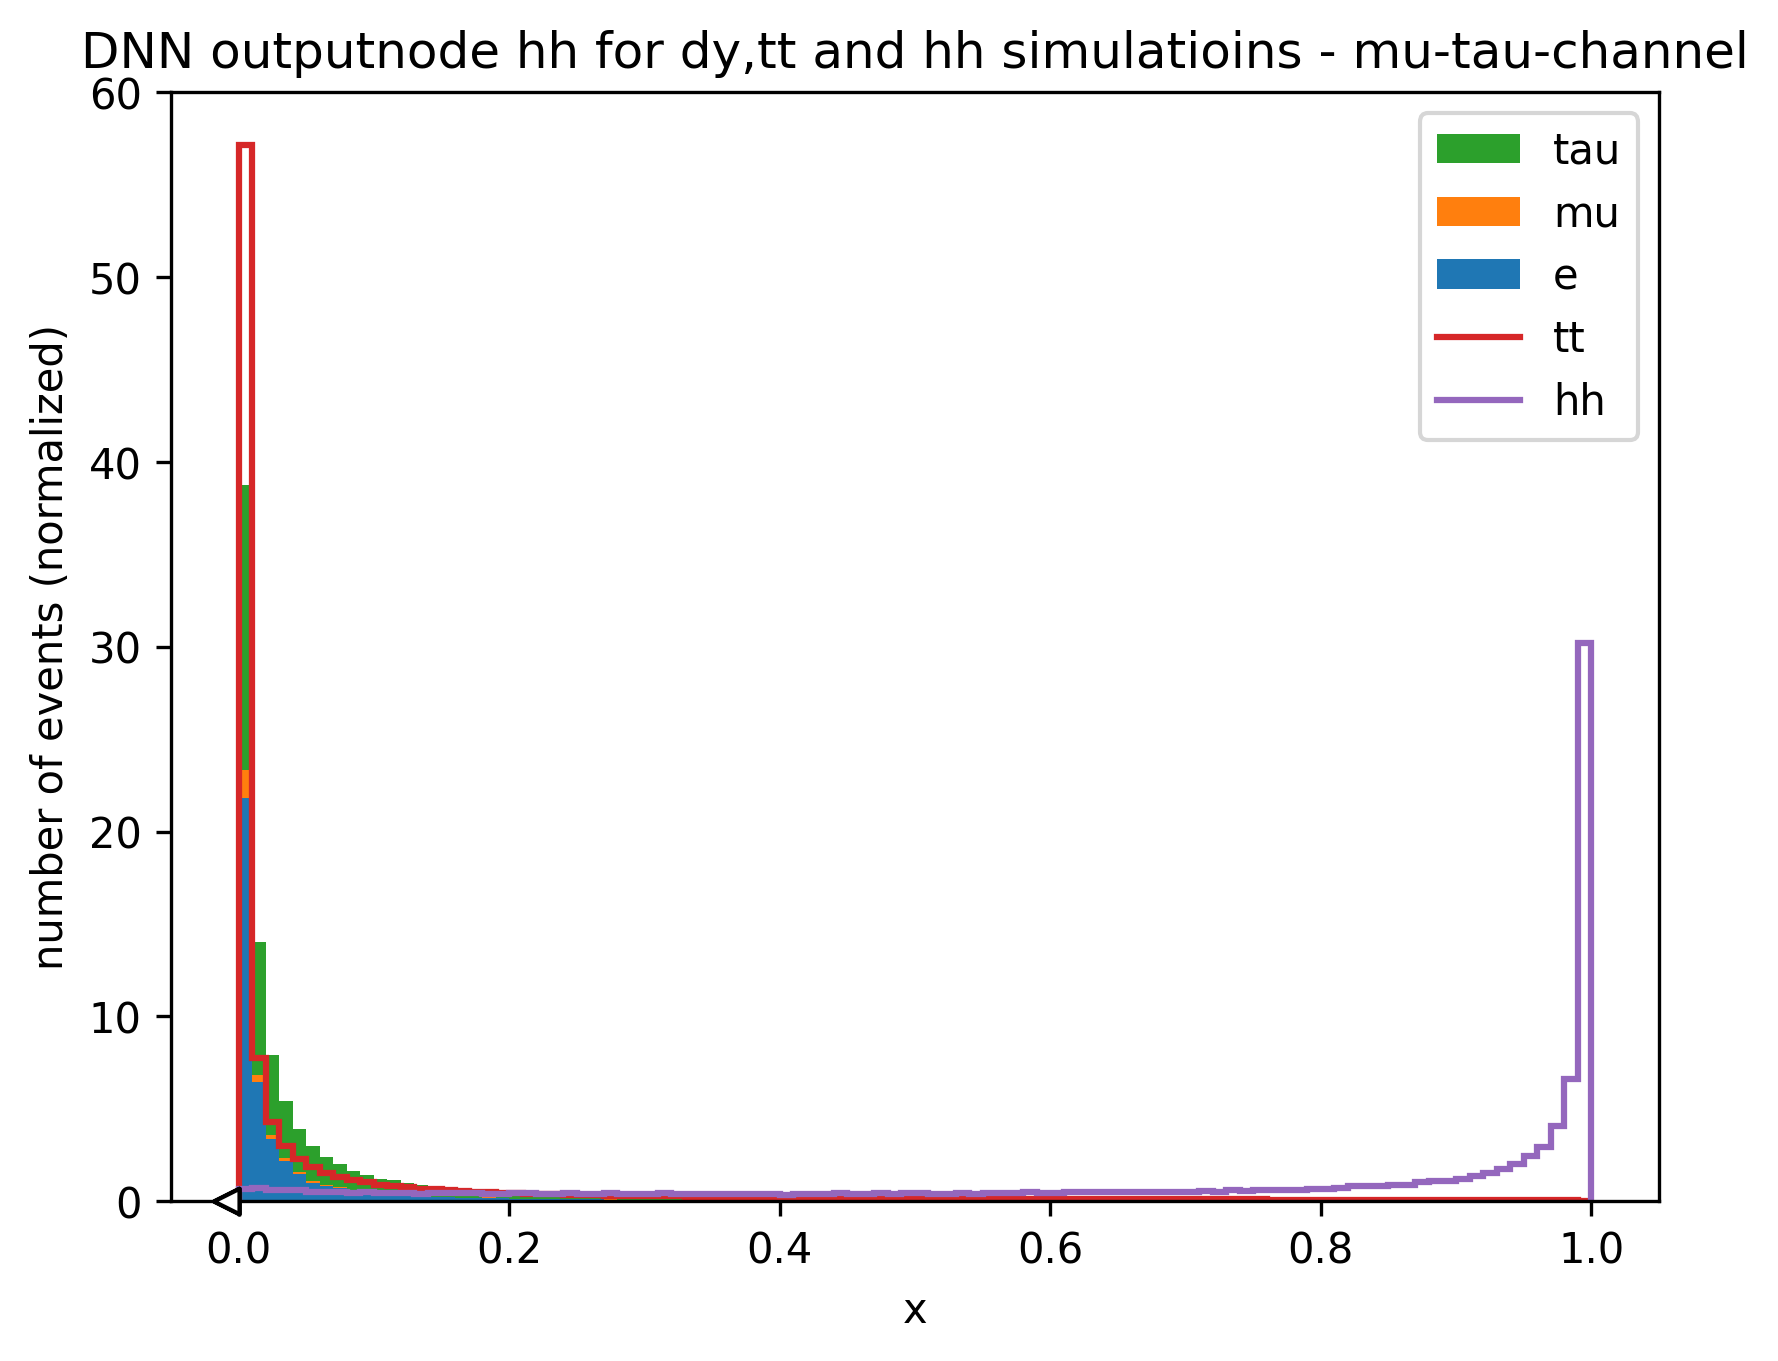
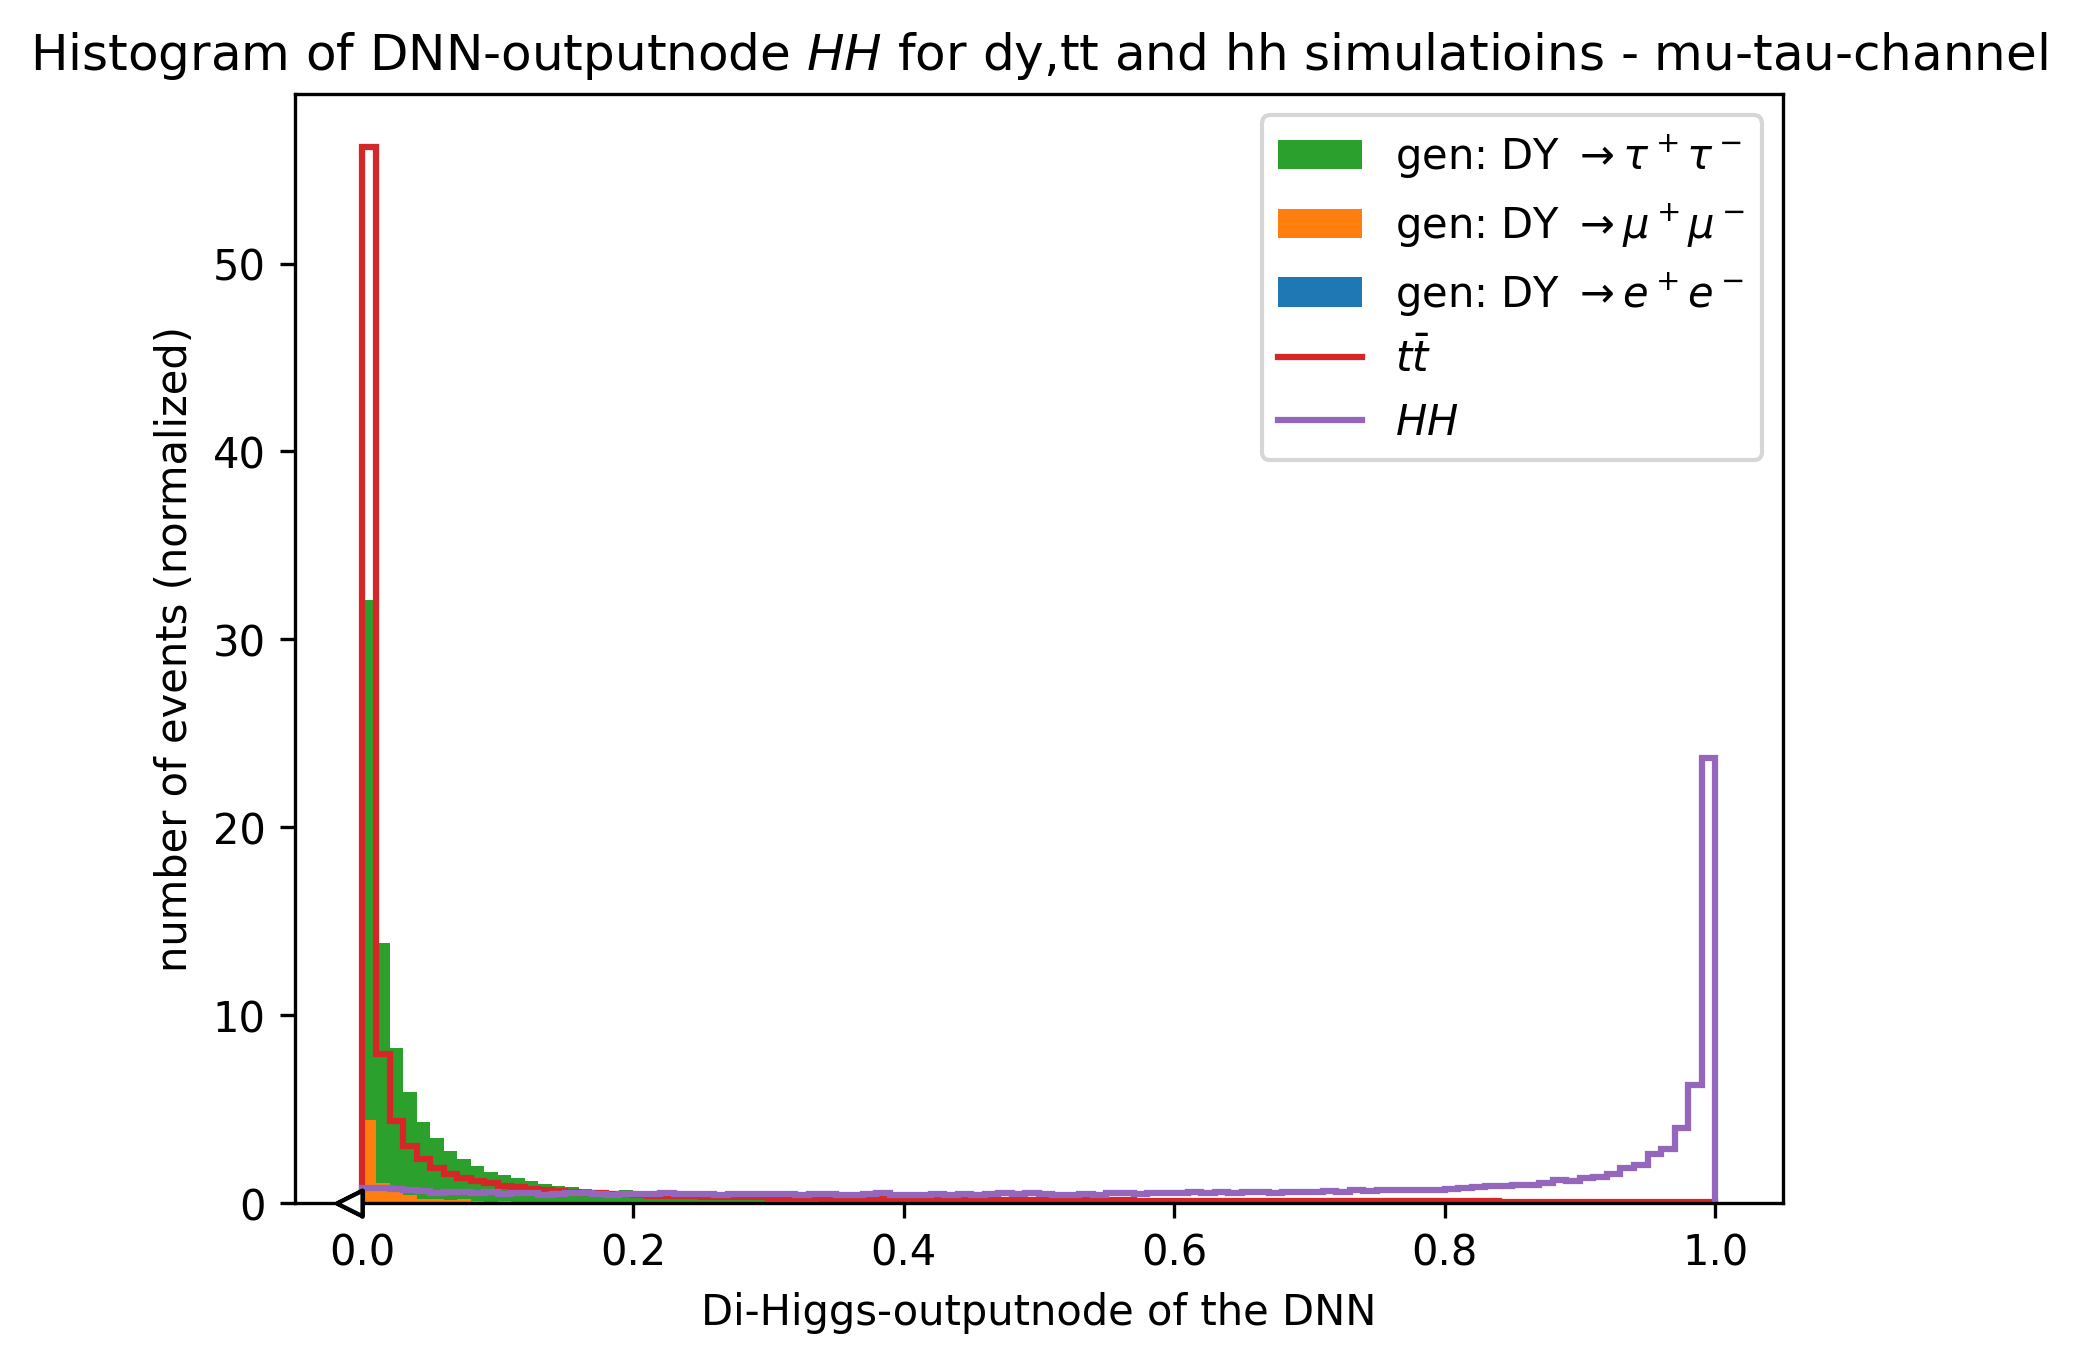
Fehler gefunden: Histogramme werden jetzt resetted; außerdem: Histogramme mit tt im Stack hinzugefügt

Changed region(s): [[0.0, 0.0, 0.9899, 0.9875], [0.6187, 0.2777, 0.7115, 0.3395], [0.0, 0.5555, 0.0309, 0.5863]]

diff --git a/plot_DNN_output.py b/plot_DNN_output.py
@@ -20,11 +20,11 @@ hh = Hist(hist.axis.Regular(bins=100, start=0, stop=1, name="x"))
 channelname=["e-tau", "mu-tau", "tau-tau"]
 
 
-#Histogramme nach channel aufteilen, fillen (für dy nach Zerfallskanal aufteilen + stacken), plotten.
+#1. Histogramme nach channel aufteilen, fillen (für dy nach Zerfallskanal aufteilen + stacken), plotten.
 for i in [1,2,3]:
-    dy.fill(x=events_dy.run3_dnn_moe_hh[(events_dy.channel_id == i) & (events_dy.gen_ll_pdgid == 11)],Zerfallskanal="e", weight=events_dy.event_weight[(events_dy.channel_id == i) & (events_dy.gen_ll_pdgid == 11)])    #maske für channel (und bei dy Zerfallskanal) in eckigen Klammern
-    dy.fill(x=events_dy.run3_dnn_moe_hh[(events_dy.channel_id == i) & (events_dy.gen_ll_pdgid == 13)],Zerfallskanal="mu", weight=events_dy.event_weight[(events_dy.channel_id == i) & (events_dy.gen_ll_pdgid == 13)])
-    dy.fill(x=events_dy.run3_dnn_moe_hh[(events_dy.channel_id == i) & (events_dy.gen_ll_pdgid == 15)],Zerfallskanal="tau", weight=events_dy.event_weight[(events_dy.channel_id == i) & (events_dy.gen_ll_pdgid == 15)])
+    dy.fill(x=events_dy.run3_dnn_moe_hh[(events_dy.channel_id == i) & (events_dy.gen_ll_pdgid == 11)],Zerfallskanal=r"gen: DY $\to e^+e^-$", weight=events_dy.event_weight[(events_dy.channel_id == i) & (events_dy.gen_ll_pdgid == 11)])    #maske für channel (und bei dy Zerfallskanal) in eckigen Klammern
+    dy.fill(x=events_dy.run3_dnn_moe_hh[(events_dy.channel_id == i) & (events_dy.gen_ll_pdgid == 13)],Zerfallskanal=r"gen: DY $\to \mu^+\mu^-$", weight=events_dy.event_weight[(events_dy.channel_id == i) & (events_dy.gen_ll_pdgid == 13)])
+    dy.fill(x=events_dy.run3_dnn_moe_hh[(events_dy.channel_id == i) & (events_dy.gen_ll_pdgid == 15)],Zerfallskanal=r"gen: DY $\to \tau^+\tau^-$", weight=events_dy.event_weight[(events_dy.channel_id == i) & (events_dy.gen_ll_pdgid == 15)])
 
     tt.fill(events_tt.run3_dnn_moe_hh[events_tt.channel_id == i],weight=events_tt.event_weight[events_tt.channel_id == i])
     hh.fill(events_hh.run3_dnn_moe_hh[events_hh.channel_id == i],weight=events_hh.event_weight[events_hh.channel_id == i])
@@ -35,43 +35,86 @@ for i in [1,2,3]:
     stack = dy.stack("Zerfallskanal")
     stack.plot(stack=True, histtype="fill") # 'stack=True' ist entscheidend!
 
-    tt.plot(label="tt")
-    hh.plot(label="hh")
+    tt.plot(label=r"$t\bar{t}$")
+    hh.plot(label=r"$HH$")
 
     plt.legend()
     plt.ylabel("number of events (weighted)")
-    plt.title(f"DNN outputnode hh for dy,tt and hh simulatioins - {channelname[i-1]}-channel")
+    plt.xlabel("Di-Higgs-outputnode of the DNN")
+    plt.title(f"Histogram of DNN-outputnode $HH$ for dy,tt and hh simulatioins - {channelname[i-1]}-channel")
     plt.savefig(f"plots/hist_hhnode/{channelname[i-1]}-channel.png", dpi=300, bbox_inches='tight')
     plt.figure()
 
+    #histogramme für nächste iteration clearen
+    dy.reset()
+    tt.reset()
+    hh.reset()
 
 
-#Das gleiche normiert in linearer skala plotten, linearisierung und normierung fehlt noch
+#2. Normierte, lineare histogramme plotten
 for i in [1,2,3]:
-    dy.fill(x=events_dy.run3_dnn_moe_hh[(events_dy.channel_id == i) & (events_dy.gen_ll_pdgid == 11)],Zerfallskanal="e", weight=events_dy.event_weight[(events_dy.channel_id == i) & (events_dy.gen_ll_pdgid == 11)])    #maske für channel (und bei dy Zerfallskanal) in eckigen Klammern
-    dy.fill(x=events_dy.run3_dnn_moe_hh[(events_dy.channel_id == i) & (events_dy.gen_ll_pdgid == 13)],Zerfallskanal="mu", weight=events_dy.event_weight[(events_dy.channel_id == i) & (events_dy.gen_ll_pdgid == 13)])
-    dy.fill(x=events_dy.run3_dnn_moe_hh[(events_dy.channel_id == i) & (events_dy.gen_ll_pdgid == 15)],Zerfallskanal="tau", weight=events_dy.event_weight[(events_dy.channel_id == i) & (events_dy.gen_ll_pdgid == 15)])
+    dy.fill(x=events_dy.run3_dnn_moe_hh[(events_dy.channel_id == i) & (events_dy.gen_ll_pdgid == 11)],Zerfallskanal=r"gen: DY $\to e^+e^-$", weight=events_dy.event_weight[(events_dy.channel_id == i) & (events_dy.gen_ll_pdgid == 11)])    #maske für channel (und bei dy Zerfallskanal) in eckigen Klammern
+    dy.fill(x=events_dy.run3_dnn_moe_hh[(events_dy.channel_id == i) & (events_dy.gen_ll_pdgid == 13)],Zerfallskanal=r"gen: DY $\to \mu^+\mu^-$", weight=events_dy.event_weight[(events_dy.channel_id == i) & (events_dy.gen_ll_pdgid == 13)])
+    dy.fill(x=events_dy.run3_dnn_moe_hh[(events_dy.channel_id == i) & (events_dy.gen_ll_pdgid == 15)],Zerfallskanal=r"gen: DY $\to \tau^+\tau^-$", weight=events_dy.event_weight[(events_dy.channel_id == i) & (events_dy.gen_ll_pdgid == 15)])
 
     tt.fill(events_tt.run3_dnn_moe_hh[events_tt.channel_id == i],weight=events_tt.event_weight[events_tt.channel_id == i])
     hh.fill(events_hh.run3_dnn_moe_hh[events_hh.channel_id == i],weight=events_hh.event_weight[events_hh.channel_id == i])
 
-    #plt.yscale('log')    #Achse logarithmisch skalieren 
 
     # Stack-Plot erstellen
     stack = dy.stack("Zerfallskanal")
     stack.plot(stack=True, histtype="fill", density=True) # 'stack=True' ist entscheidend!
 
-    tt.plot(label="tt", density=True)
-    hh.plot(label="hh", density=True)
+    tt.plot(label=r"$t\bar{t}$", density=True)
+    hh.plot(label=r"$HH$", density=True)
 
     plt.legend()
     plt.ylabel("number of events (normalized)")
-    plt.title(f"DNN outputnode hh for dy,tt and hh simulatioins - {channelname[i-1]}-channel")
+    plt.xlabel("Di-Higgs-outputnode of the DNN")
+    plt.title(f"Histogram of DNN-outputnode $HH$ for dy,tt and hh simulatioins - {channelname[i-1]}-channel")
     plt.savefig(f"plots/hist_hhnode_lin/{channelname[i-1]}-channel_linear.png", dpi=300, bbox_inches='tight')
     plt.figure()
+
+    #histogramme für nächste iteration clearen
+    dy.reset()
+    tt.reset()
+    hh.reset()
+
+
+#3. wie 1, aber tt wird zum stack hinzugefügt
+for i in [1,2,3]:
+    dy.fill(x=events_dy.run3_dnn_moe_hh[(events_dy.channel_id == i) & (events_dy.gen_ll_pdgid == 11)],Zerfallskanal=r"gen: DY $\to e^+e^-$", weight=events_dy.event_weight[(events_dy.channel_id == i) & (events_dy.gen_ll_pdgid == 11)])    #maske für channel (und bei dy Zerfallskanal) in eckigen Klammern
+    dy.fill(x=events_dy.run3_dnn_moe_hh[(events_dy.channel_id == i) & (events_dy.gen_ll_pdgid == 13)],Zerfallskanal=r"gen: DY $\to \mu^+\mu^-$", weight=events_dy.event_weight[(events_dy.channel_id == i) & (events_dy.gen_ll_pdgid == 13)])
+    dy.fill(x=events_dy.run3_dnn_moe_hh[(events_dy.channel_id == i) & (events_dy.gen_ll_pdgid == 15)],Zerfallskanal=r"gen: DY $\to \tau^+\tau^-$", weight=events_dy.event_weight[(events_dy.channel_id == i) & (events_dy.gen_ll_pdgid == 15)])
+    dy.fill(x=events_tt.run3_dnn_moe_hh[events_tt.channel_id == i],Zerfallskanal=r"$t\bar{t}$", weight=events_tt.event_weight[events_tt.channel_id == i])
+
+    tt.fill(events_tt.run3_dnn_moe_hh[events_tt.channel_id == i],weight=events_tt.event_weight[events_tt.channel_id == i])
+    hh.fill(events_hh.run3_dnn_moe_hh[events_hh.channel_id == i],weight=events_hh.event_weight[events_hh.channel_id == i])
+
+    plt.yscale('log')    #Achse logarithmisch skalieren 
+
+    # Stack-Plot erstellen
+    stack = dy.stack("Zerfallskanal") #technically zerfallskanal+tt als korrekter name
+    stack.plot(stack=True, histtype="fill") # 'stack=True' ist entscheidend!
+
+    tt.plot(label=r"$t\bar{t}$")
+    hh.plot(label=r"$HH$")
+
+    plt.legend()
+    plt.ylabel("number of events (weighted)")
+    plt.xlabel("Di-Higgs-outputnode of the DNN")
+    plt.title(f"Histogram of DNN-outputnode $HH$ for dy,tt and hh simulatioins - {channelname[i-1]}-channel")
+    plt.savefig(f"plots/hist_hhnode_stacked-tt/{channelname[i-1]}-channel.png", dpi=300, bbox_inches='tight')
+    plt.figure()
+
+    #histogramme für nächste iteration clearen
+    dy.reset()
+    tt.reset()
+    hh.reset()
 
 
 
 #channel zuordnungen 1: e tau, 2: mu tau, 3: tau tau
 
-#to do: Legende sehr ausführlich machen (gen: dy->tt, etc), tt zum Stack hinzufügen, migration plot von dy type zu den channels, x achse labeln
+#to do: migration plot von dy type zu den channels
+
